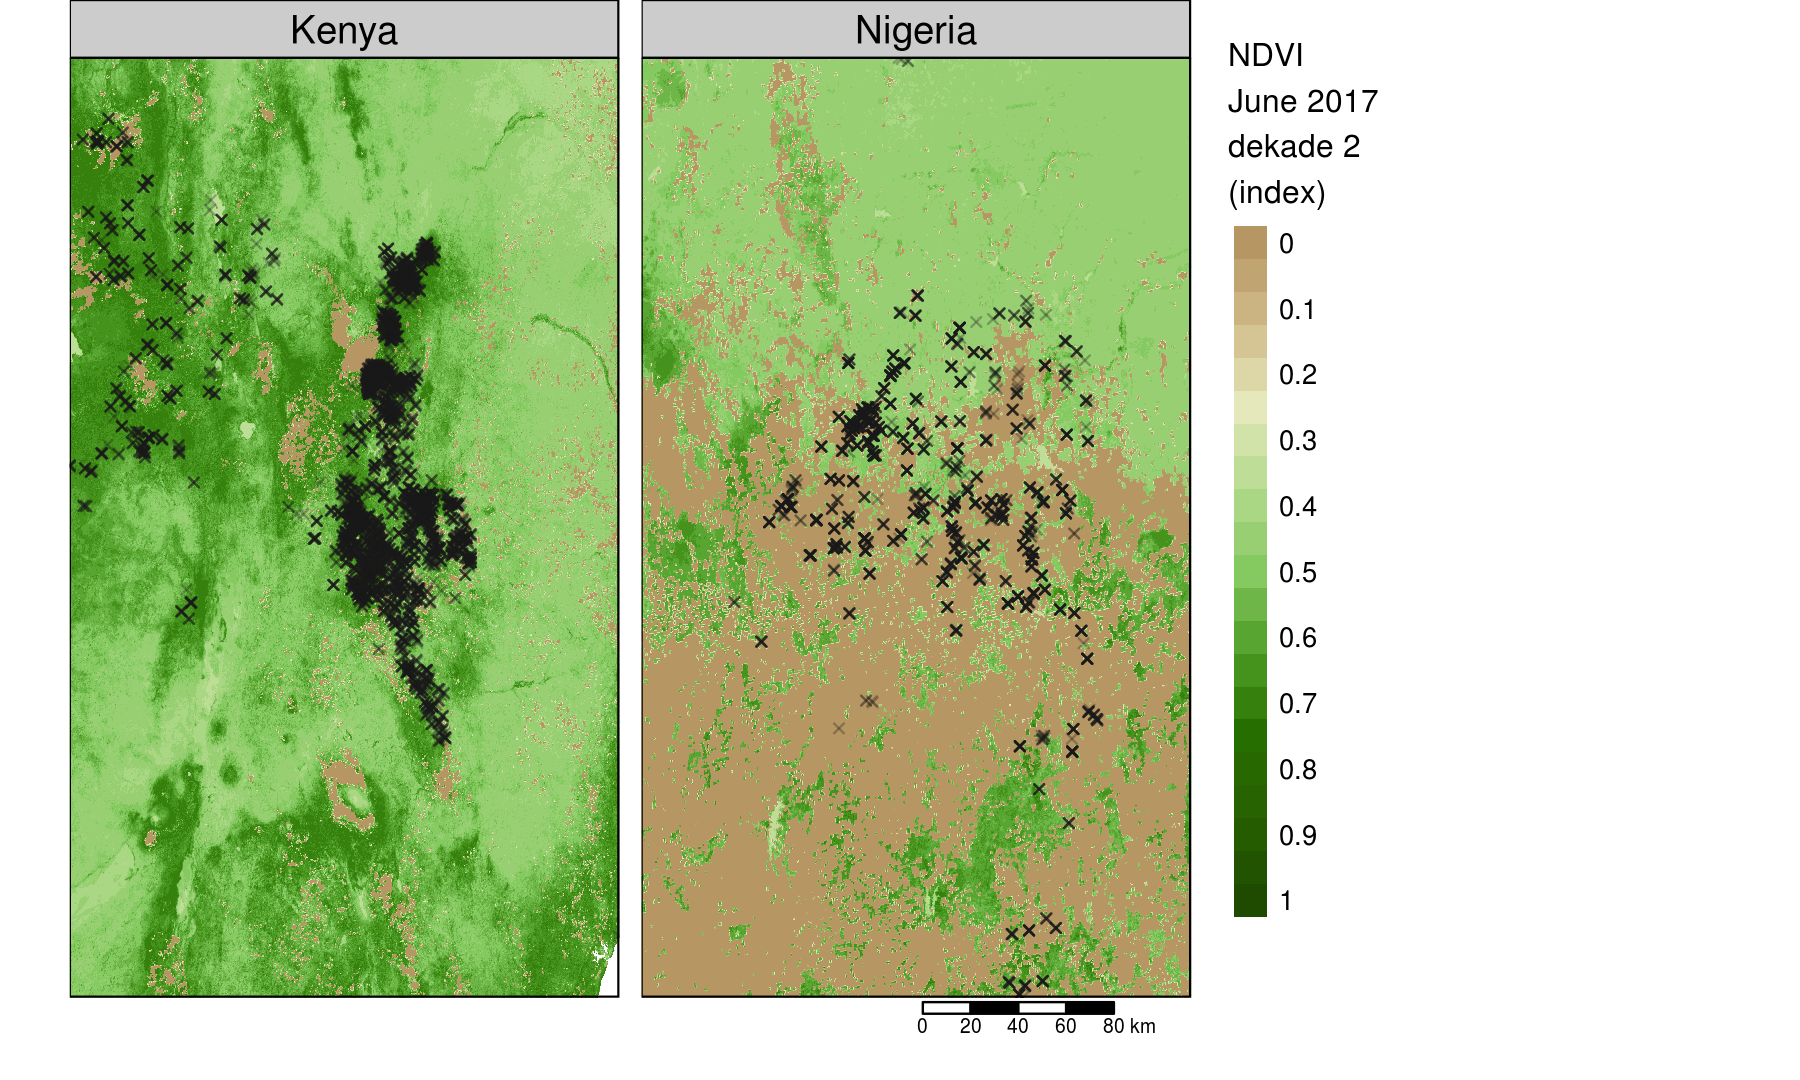
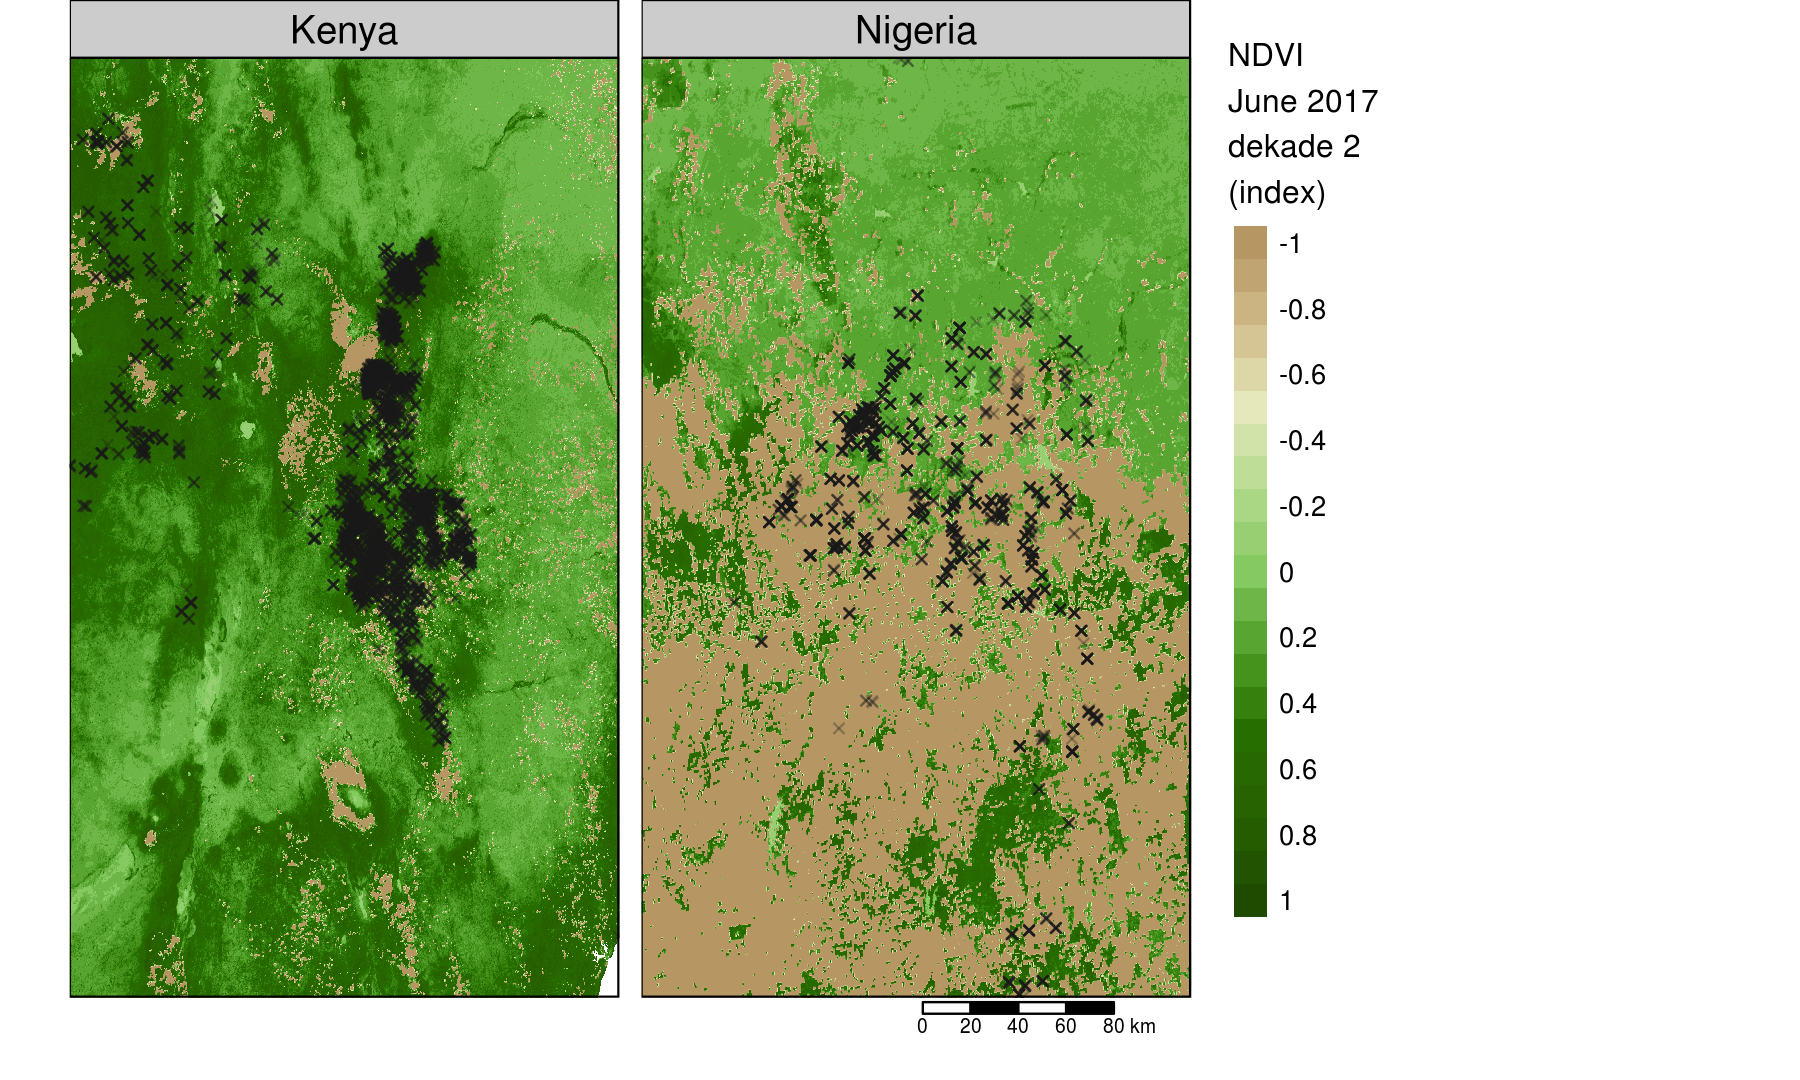
Corrected units of NDVI

diff --git a/docs/index.html b/docs/index.html
@@ -5,11 +5,11 @@
 
   <meta charset="UTF-8">
   <meta http-equiv="X-UA-Compatible" content="IE=edge">
-  <title>Geospatial Characteristics of Program Beneficiaries</title>
+  <title>Geospatial Characteristics of Program Beneficiaries (Documentation)</title>
   <meta name="description" content="Biophysical, socio-economic, and market information derived from high-resolution remote sensing and modeled time series.">
   <meta name="generator" content="bookdown 0.4 and GitBook 2.6.7">
 
-  <meta property="og:title" content="Geospatial Characteristics of Program Beneficiaries" />
+  <meta property="og:title" content="Geospatial Characteristics of Program Beneficiaries (Documentation)" />
   <meta property="og:type" content="book" />
   
   <meta property="og:image" content="fig/cover.jpg" />
@@ -17,7 +17,7 @@
   
 
   <meta name="twitter:card" content="summary" />
-  <meta name="twitter:title" content="Geospatial Characteristics of Program Beneficiaries" />
+  <meta name="twitter:title" content="Geospatial Characteristics of Program Beneficiaries (Documentation)" />
   
   <meta name="twitter:description" content="Biophysical, socio-economic, and market information derived from high-resolution remote sensing and modeled time series." />
   <meta name="twitter:image" content="fig/cover.jpg" />
@@ -98,7 +98,7 @@
       <div class="body-inner">
         <div class="book-header" role="navigation">
           <h1>
-            <i class="fa fa-circle-o-notch fa-spin"></i><a href="./">Geospatial Characteristics of Program Beneficiaries</a>
+            <i class="fa fa-circle-o-notch fa-spin"></i><a href="./">Geospatial Characteristics of Program Beneficiaries (Documentation)</a>
           </h1>
         </div>
 
@@ -107,9 +107,9 @@
 
             <section class="normal" id="section-">
 <div id="header">
-<h1 class="title">Geospatial Characteristics of Program Beneficiaries</h1>
+<h1 class="title">Geospatial Characteristics of Program Beneficiaries (Documentation)</h1>
 <h4 class="author"><em><a href="http://github.com/mbacou">BACOU, Melanie</a> for <a href="http://agresults.org/">AgResults</a> (Abt Associates)</em></h4>
-<h4 class="date"><em>Last updated on 2017-07-03. DO NOT USE OR CITE</em></h4>
+<h4 class="date"><em>Last updated on 2017-07-04. DO NOT USE OR CITE</em></h4>
 </div>
 <div id="survey-sampling" class="section level1">
 <h1><span class="header-section-number">Section 1</span> Survey Sampling</h1>

diff --git a/docs/data-sources-and-preprocessing.html b/docs/data-sources-and-preprocessing.html
@@ -5,11 +5,11 @@
 
   <meta charset="UTF-8">
   <meta http-equiv="X-UA-Compatible" content="IE=edge">
-  <title>Geospatial Characteristics of Program Beneficiaries</title>
+  <title>Geospatial Characteristics of Program Beneficiaries (Documentation)</title>
   <meta name="description" content="Biophysical, socio-economic, and market information derived from high-resolution remote sensing and modeled time series.">
   <meta name="generator" content="bookdown 0.4 and GitBook 2.6.7">
 
-  <meta property="og:title" content="Geospatial Characteristics of Program Beneficiaries" />
+  <meta property="og:title" content="Geospatial Characteristics of Program Beneficiaries (Documentation)" />
   <meta property="og:type" content="book" />
   
   <meta property="og:image" content="fig/cover.jpg" />
@@ -17,7 +17,7 @@
   
 
   <meta name="twitter:card" content="summary" />
-  <meta name="twitter:title" content="Geospatial Characteristics of Program Beneficiaries" />
+  <meta name="twitter:title" content="Geospatial Characteristics of Program Beneficiaries (Documentation)" />
   
   <meta name="twitter:description" content="Biophysical, socio-economic, and market information derived from high-resolution remote sensing and modeled time series." />
   <meta name="twitter:image" content="fig/cover.jpg" />
@@ -98,7 +98,7 @@
       <div class="body-inner">
         <div class="book-header" role="navigation">
           <h1>
-            <i class="fa fa-circle-o-notch fa-spin"></i><a href="./">Geospatial Characteristics of Program Beneficiaries</a>
+            <i class="fa fa-circle-o-notch fa-spin"></i><a href="./">Geospatial Characteristics of Program Beneficiaries (Documentation)</a>
           </h1>
         </div>
 

diff --git a/docs/data-summaries.html b/docs/data-summaries.html
@@ -5,11 +5,11 @@
 
   <meta charset="UTF-8">
   <meta http-equiv="X-UA-Compatible" content="IE=edge">
-  <title>Geospatial Characteristics of Program Beneficiaries</title>
+  <title>Geospatial Characteristics of Program Beneficiaries (Documentation)</title>
   <meta name="description" content="Biophysical, socio-economic, and market information derived from high-resolution remote sensing and modeled time series.">
   <meta name="generator" content="bookdown 0.4 and GitBook 2.6.7">
 
-  <meta property="og:title" content="Geospatial Characteristics of Program Beneficiaries" />
+  <meta property="og:title" content="Geospatial Characteristics of Program Beneficiaries (Documentation)" />
   <meta property="og:type" content="book" />
   
   <meta property="og:image" content="fig/cover.jpg" />
@@ -17,7 +17,7 @@
   
 
   <meta name="twitter:card" content="summary" />
-  <meta name="twitter:title" content="Geospatial Characteristics of Program Beneficiaries" />
+  <meta name="twitter:title" content="Geospatial Characteristics of Program Beneficiaries (Documentation)" />
   
   <meta name="twitter:description" content="Biophysical, socio-economic, and market information derived from high-resolution remote sensing and modeled time series." />
   <meta name="twitter:image" content="fig/cover.jpg" />
@@ -98,7 +98,7 @@
       <div class="body-inner">
         <div class="book-header" role="navigation">
           <h1>
-            <i class="fa fa-circle-o-notch fa-spin"></i><a href="./">Geospatial Characteristics of Program Beneficiaries</a>
+            <i class="fa fa-circle-o-notch fa-spin"></i><a href="./">Geospatial Characteristics of Program Beneficiaries (Documentation)</a>
           </h1>
         </div>
 

diff --git a/docs/references.html b/docs/references.html
@@ -5,11 +5,11 @@
 
   <meta charset="UTF-8">
   <meta http-equiv="X-UA-Compatible" content="IE=edge">
-  <title>Geospatial Characteristics of Program Beneficiaries</title>
+  <title>Geospatial Characteristics of Program Beneficiaries (Documentation)</title>
   <meta name="description" content="Biophysical, socio-economic, and market information derived from high-resolution remote sensing and modeled time series.">
   <meta name="generator" content="bookdown 0.4 and GitBook 2.6.7">
 
-  <meta property="og:title" content="Geospatial Characteristics of Program Beneficiaries" />
+  <meta property="og:title" content="Geospatial Characteristics of Program Beneficiaries (Documentation)" />
   <meta property="og:type" content="book" />
   
   <meta property="og:image" content="fig/cover.jpg" />
@@ -17,7 +17,7 @@
   
 
   <meta name="twitter:card" content="summary" />
-  <meta name="twitter:title" content="Geospatial Characteristics of Program Beneficiaries" />
+  <meta name="twitter:title" content="Geospatial Characteristics of Program Beneficiaries (Documentation)" />
   
   <meta name="twitter:description" content="Biophysical, socio-economic, and market information derived from high-resolution remote sensing and modeled time series." />
   <meta name="twitter:image" content="fig/cover.jpg" />
@@ -98,7 +98,7 @@
       <div class="body-inner">
         <div class="book-header" role="navigation">
           <h1>
-            <i class="fa fa-circle-o-notch fa-spin"></i><a href="./">Geospatial Characteristics of Program Beneficiaries</a>
+            <i class="fa fa-circle-o-notch fa-spin"></i><a href="./">Geospatial Characteristics of Program Beneficiaries (Documentation)</a>
           </h1>
         </div>
 
